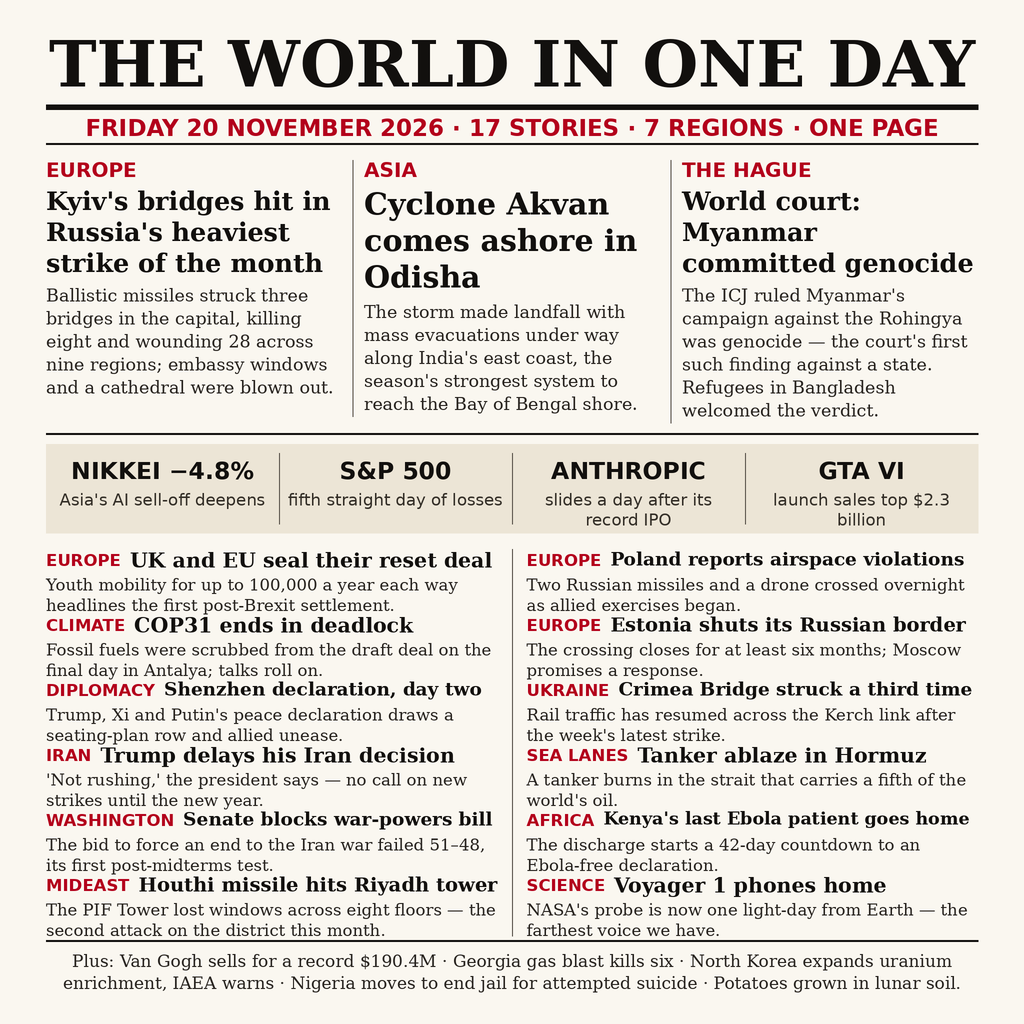
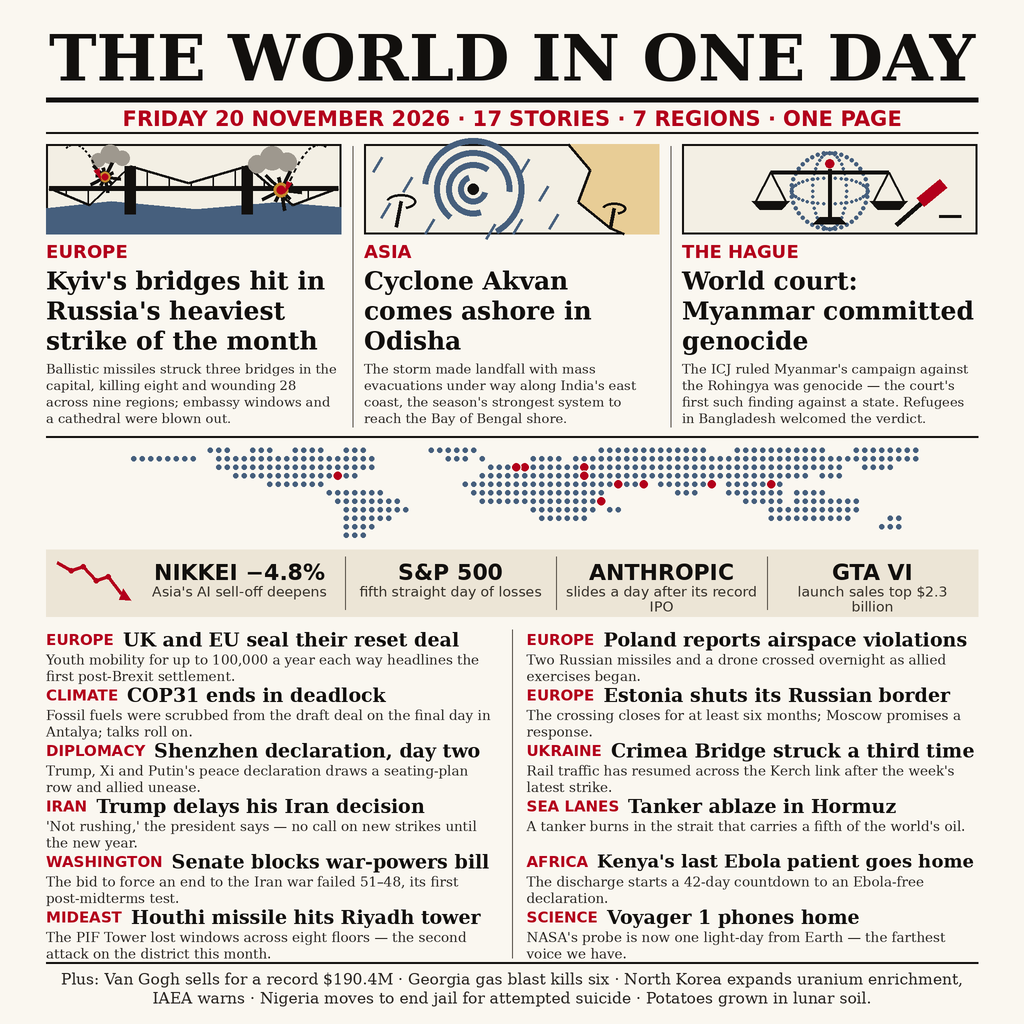
Add drawn illustrations: hero art, dotted world map, markets chart

diff --git a/build_image.py b/build_image.py
@@ -3,11 +3,15 @@
 Friday 20 November 2026 — at 2048x2048, then Lanczos-downscale it to
 the 1024x1024 entry.png the competition hands in.
 
-The page is deliberately sparse: three hero stories, a markets strip,
-twelve one-line briefs and a footer. Legibility beat density in the
-previous edition of this contest, so every headline is measured with
-PIL's text metrics and shrunk or wrapped until it fits its box.
+The page is deliberately sparse: three hero stories with drawn
+illustration panels, a dotted world map of the day's story places, a
+markets strip, twelve one-line briefs and a footer. Legibility beat
+density in the previous edition of this contest, so every headline is
+measured with PIL's text metrics and shrunk or wrapped until it fits
+its box, and the artwork stays bold and simple.
 """
+
+import math
 
 from PIL import Image, ImageDraw, ImageFont
 
@@ -19,6 +23,10 @@ INK = (18, 16, 14)
 RED = (179, 0, 27)            # #b3001b
 BAND = (236, 229, 214)        # markets strip shading
 MUTE = (90, 84, 76)
+SLATE = (70, 95, 125)         # slate blue: water, map dots, rain
+OCHRE = (196, 138, 44)        # land and burst rings
+PALE = (243, 239, 228)        # illustration panel tint
+SMOKE = (158, 152, 142)
 
 FONT_DIR = "/usr/share/fonts/truetype/dejavu/"
 SERIF_B = FONT_DIR + "DejaVuSerif-Bold.ttf"
@@ -82,20 +90,168 @@ def rule(y, height, fill=INK):
 # ---------------------------------------------------------------- masthead
 
 title = "THE WORLD IN ONE DAY"
-tf = fit_single(title, SERIF_B, 158, CW)
-centered(title, 52, tf)
-y = 52 + int(tf.size * 1.18)
+tf = fit_single(title, SERIF_B, 140, CW)
+centered(title, 40, tf)
+y = 40 + int(tf.size * 1.18)
 
-rule(y + 6, 10)
-y += 26
+rule(y + 4, 9)
+y += 22
 date_f = fit_single(
     "FRIDAY 20 NOVEMBER 2026 \u00b7 17 STORIES \u00b7 7 REGIONS \u00b7 ONE PAGE",
-    SANS_B, 46, CW)
+    SANS_B, 42, CW)
 centered("FRIDAY 20 NOVEMBER 2026 \u00b7 17 STORIES \u00b7 7 REGIONS \u00b7 ONE PAGE",
          y, date_f, fill=RED)
-y += int(date_f.size * 1.25)
+y += int(date_f.size * 1.22)
 rule(y, 3)
-y += 30
+y += 24
+
+# ------------------------------------------------------- hero artwork
+# One flat illustration style throughout: bold PIL primitives, the page's
+# own palette, shapes big enough to read at thumbnail size.
+
+def panel(x, y, w, h):
+    d.rectangle([x, y, x + w, y + h], fill=PALE, outline=INK, width=4)
+
+
+def burst(cx, cy, r):
+    """An explosion starburst: radiating ink spikes, red heart, ochre ring."""
+    for k in range(10):
+        a = math.radians(k * 36 + 8)
+        rr = r if k % 2 == 0 else int(r * 0.62)
+        d.line([cx, cy, cx + rr * math.cos(a), cy + rr * math.sin(a)],
+               fill=INK, width=7)
+    d.ellipse([cx - r * 0.34, cy - r * 0.34, cx + r * 0.34, cy + r * 0.34],
+              outline=OCHRE, width=7)
+    d.ellipse([cx - r * 0.2, cy - r * 0.2, cx + r * 0.2, cy + r * 0.2],
+              fill=RED)
+
+
+def smoke(cx, cy, s):
+    for dx, dy, r in ((-s, 6, int(s * 0.62)), (0, -6, int(s * 0.8)),
+                      (s, 2, int(s * 0.66))):
+        d.ellipse([cx + dx - r, cy + dy - r, cx + dx + r, cy + dy + r],
+                  fill=SMOKE)
+
+
+def trail(x0, y0, x1, y1, lift):
+    """A dashed missile arc from (x0, y0) down to (x1, y1)."""
+    pts = []
+    for t in range(21):
+        u = t / 20
+        pts.append((x0 + (x1 - x0) * u,
+                    y0 + (y1 - y0) * u - lift * 4 * u * (1 - u)))
+    for i in range(0, len(pts) - 1, 2):
+        d.line([pts[i], pts[i + 1]], fill=INK, width=4)
+    a = math.atan2(pts[-1][1] - pts[-3][1], pts[-1][0] - pts[-3][0])
+    tip = pts[-1]
+    d.polygon([(tip[0] + 16 * math.cos(a), tip[1] + 16 * math.sin(a)),
+               (tip[0] + 10 * math.cos(a + 2.5), tip[1] + 10 * math.sin(a + 2.5)),
+               (tip[0] + 10 * math.cos(a - 2.5), tip[1] + 10 * math.sin(a - 2.5))],
+              fill=RED)
+
+
+def art_kyiv(x, y, w, h):
+    panel(x, y, w, h)
+    # river band along the foot, slate under a wavy bank line
+    bank = [(x, y + h - 52), (x + 130, y + h - 66), (x + 300, y + h - 50),
+            (x + 460, y + h - 64), (x + w, y + h - 54), (x + w, y + h),
+            (x, y + h)]
+    d.polygon(bank, fill=SLATE)
+    # suspension bridge: two towers, a deck, cables and hangers
+    deck_y = y + h - 92
+    tx1, tx2 = x + 168, x + 402
+    for tx in (tx1, tx2):
+        d.rectangle([tx - 11, y + 44, tx + 11, y + h - 40], fill=INK)
+    d.line([x + 6, deck_y, x + w - 6, deck_y], fill=INK, width=10)
+    spans = [(x + 6, tx1, deck_y, y + 44), (tx1, tx2, y + 44, y + 44),
+             (tx2, x + w - 6, y + 44, deck_y)]
+    for xa, xb, ya, yb in spans:
+        mid = ((xa + xb) // 2, max(ya, yb) + 34)
+        d.line([xa, ya, mid[0], mid[1]], fill=INK, width=5)
+        d.line([mid[0], mid[1], xb, yb], fill=INK, width=5)
+        for fx in range(xa + 34, xb - 10, 44):
+            u = (fx - xa) / (xb - xa)
+            top = (ya + (mid[1] - ya) * (u / 0.5)) if u < 0.5 else \
+                  (mid[1] + (yb - mid[1]) * ((u - 0.5) / 0.5))
+            d.line([fx, top, fx, deck_y], fill=INK, width=3)
+    # smoke first (behind the bursts), then bursts and incoming trails
+    smoke(x + 452, y + 34, 30)
+    smoke(x + 128, y + 26, 24)
+    burst(x + 470, y + 92, 42)
+    burst(x + 118, y + 66, 32)
+    trail(x + 40, y + 8, x + 104, y + 58, 26)
+    trail(x + w - 30, y + 6, x + 484, y + 84, 30)
+
+
+def art_cyclone(x, y, w, h):
+    panel(x, y, w, h)
+    # coastline: ochre land shoulder on the right
+    coast = [(x + 408, y), (x + 452, y + 52), (x + 428, y + 116),
+             (x + 492, y + 168), (x + 520, y + h), (x + w, y + h),
+             (x + w, y)]
+    d.polygon(coast, fill=(232, 205, 150))
+    d.line(coast[:5], fill=INK, width=5)
+    # cyclone: concentric broken arcs around an ink eye
+    cx, cy = x + 218, y + h // 2
+    for i, r in enumerate((30, 54, 78, 102)):
+        start = 15 + i * 57
+        d.arc([cx - r, cy - r, cx + r, cy + r], start, start + 235,
+              fill=SLATE, width=12)
+    d.ellipse([cx - 11, cy - 11, cx + 11, cy + 11], fill=INK)
+    # diagonal rain streaks
+    for rx, ry in ((36, 26), (96, 66), (52, 118), (140, 150), (330, 30),
+                   (368, 84), (316, 150), (150, 18), (262, 160), (388, 140)):
+        d.line([x + rx, y + ry, x + rx - 18, y + ry + 30], fill=SLATE, width=5)
+    # two palms, bent by the wind
+    for px, py, s in ((64, h - 14, 1.0), (492, h - 10, 0.8)):
+        bx, by = x + px, y + py
+        d.line([bx, by, bx + 10 * s, by - 52 * s], fill=INK, width=7)
+        tx, ty = bx + 10 * s, by - 52 * s
+        for a in (-165, -120, -75, -30, 15):
+            ar = math.radians(a)
+            d.arc([tx - 30 * s, ty - 14 * s, tx + 30 * s, ty + 16 * s],
+                  a, a + 55, fill=INK, width=5)
+
+
+def art_icj(x, y, w, h):
+    panel(x, y, w, h)
+    cx, cy = x + w // 2, y + h // 2 + 4
+    # dotted globe behind the scales
+    for k in range(40):
+        a = math.radians(k * 9)
+        dx, dy = cx + 76 * math.cos(a), cy + 76 * math.sin(a)
+        d.ellipse([dx - 4, dy - 4, dx + 4, dy + 4], fill=SLATE)
+        ex, ey = cx + 34 * math.cos(a), cy + 76 * math.sin(a)
+        d.ellipse([ex - 3, ey - 3, ex + 3, ey + 3], fill=SLATE)
+        gx, gy = cx + 76 * math.cos(a), cy + 26 * math.sin(a)
+        d.ellipse([gx - 3, gy - 3, gx + 3, gy + 3], fill=SLATE)
+    # scales of justice
+    top = y + 34
+    d.line([cx, top + 16, cx, y + h - 34], fill=INK, width=8)
+    d.ellipse([cx - 9, top - 4, cx + 9, top + 14], fill=RED)
+    beam_y = top + 22
+    d.line([cx - 118, beam_y, cx + 118, beam_y], fill=INK, width=8)
+    for sx in (cx - 118, cx + 118):
+        pan_y = beam_y + 58
+        d.line([sx, beam_y, sx - 30, pan_y], fill=INK, width=4)
+        d.line([sx, beam_y, sx + 30, pan_y], fill=INK, width=4)
+        d.polygon([(sx - 38, pan_y), (sx + 38, pan_y), (sx + 22, pan_y + 17),
+                   (sx - 22, pan_y + 17)], fill=INK)
+    d.polygon([(cx - 34, y + h - 20), (cx + 34, y + h - 20),
+               (cx + 20, y + h - 34), (cx - 20, y + h - 34)], fill=INK)
+    # gavel, struck at the lower right
+    gx, gy = x + w - 128, y + h - 44
+    d.line([gx - 34, gy + 26, gx + 30, gy - 30], fill=INK, width=9)
+    ca, sa = math.cos(math.radians(-40)), math.sin(math.radians(-40))
+    hx, hy = gx + 38, gy - 38
+    corners = []
+    for lx, ly in ((-30, -11), (30, -11), (30, 11), (-30, 11)):
+        corners.append((hx + lx * ca - ly * sa, hy + lx * sa + ly * ca))
+    d.polygon(corners, fill=RED)
+    d.line([gx + 52, gy + 8, gx + 96, gy + 8], fill=INK, width=6)
+
+
+ART = [art_kyiv, art_cyclone, art_icj]
 
 # ---------------------------------------------------------------- heroes
 
@@ -121,30 +277,74 @@ hero_top = y
 col_gap = 46
 col_w = (CW - 2 * col_gap) // 3
 hero_bottom = hero_top
+ART_H = 180
 
 for i, (kicker, head, deck) in enumerate(HEROES):
     x = MARGIN + i * (col_w + col_gap)
-    cy = hero_top
-    d.text((x, cy), kicker, font=font(SANS_B, 40), fill=RED)
-    cy += 56
-    hf = font(SERIF_B, 60)
+    ART[i](x, hero_top, col_w, ART_H)
+    cy = hero_top + ART_H + 14
+    d.text((x, cy), kicker, font=font(SANS_B, 36), fill=RED)
+    cy += 50
+    hf = font(SERIF_B, 50)
     head_lines = wrap(head, hf, col_w)
     while len(head_lines) > 3 and hf.size > 34:
         hf = font(SERIF_B, hf.size - 3)
         head_lines = wrap(head, hf, col_w)
-    cy = draw_lines(x, cy, head_lines, hf, int(hf.size * 1.22))
-    cy += 12
-    df = font(SERIF, 35)
+    cy = draw_lines(x, cy, head_lines, hf, int(hf.size * 1.2))
+    cy += 10
+    df = font(SERIF, 26)
     deck_lines = wrap(deck, df, col_w)
-    cy = draw_lines(x, cy, deck_lines, df, 46, fill=(40, 36, 32))
+    cy = draw_lines(x, cy, deck_lines, df, 33, fill=(40, 36, 32))
     hero_bottom = max(hero_bottom, cy)
-    if i:
-        dx = x - col_gap // 2
-        d.line([dx, hero_top + 4, dx, hero_bottom], fill=MUTE, width=2)
 
-y = hero_bottom + 20
+for i in (1, 2):
+    dx = MARGIN + i * (col_w + col_gap) - col_gap // 2
+    d.line([dx, hero_top + 4, dx, hero_bottom], fill=MUTE, width=2)
+
+y = hero_bottom + 18
 rule(y, 3)
-y += 22
+y += 20
+
+# ------------------------------------------------------------ world map
+# A dotted-grid world map: land ranges on a 96 x 11 grid (3.75 degrees a
+# column, 13 a row, from 74N), with red dots at the day's story places.
+
+MAP_LAND = [
+    [(12, 14), (17, 19), (22, 25), (28, 30), (38, 43), (58, 70), (74, 84),
+     (88, 95)],
+    [(3, 10), (13, 31), (40, 42), (44, 44), (50, 53), (55, 95)],
+    [(13, 31), (45, 46), (47, 56), (57, 86), (89, 92)],
+    [(15, 29), (44, 57), (58, 82), (84, 86)],
+    [(19, 25), (42, 58), (59, 63), (65, 71), (73, 79)],
+    [(26, 32), (43, 58), (67, 69), (73, 79), (81, 84)],
+    [(27, 34), (44, 58), (75, 79), (81, 85), (86, 88)],
+    [(28, 35), (50, 57), (59, 60), (78, 88)],
+    [(28, 33), (51, 56), (78, 87), (92, 93)],
+    [(28, 31), (91, 93)],
+    [(28, 30)],
+]
+MAP_PLACES = [  # (lon, lat): Kyiv, Odisha, The Hague, Riyadh, Shenzhen,
+    (30.5, 50.4), (86.0, 20.0), (4.3, 52.0), (46.7, 24.6), (114.0, 22.5),
+    (-0.1, 51.5), (30.7, 36.9), (36.8, -1.3), (56.3, 26.6), (-77.0, 38.9),
+]  # London, Antalya, Nairobi, Hormuz, Washington
+
+map_pitch = 17
+map_w = 96 * map_pitch
+map_x = MARGIN + (CW - map_w) // 2
+for row, ranges in enumerate(MAP_LAND):
+    for c0, c1 in ranges:
+        for c in range(c0, c1 + 1):
+            cx = map_x + c * map_pitch + map_pitch // 2
+            cy = y + row * map_pitch + map_pitch // 2
+            d.ellipse([cx - 5, cy - 5, cx + 5, cy + 5], fill=SLATE)
+for lon, lat in MAP_PLACES:
+    c = round((lon + 180) / 3.75)
+    r = round((74 - lat) / 13)
+    cx = map_x + c * map_pitch + map_pitch // 2
+    cy = y + r * map_pitch + map_pitch // 2
+    d.ellipse([cx - 10, cy - 10, cx + 10, cy + 10], fill=PAPER)
+    d.ellipse([cx - 8, cy - 8, cx + 8, cy + 8], fill=RED)
+y += len(MAP_LAND) * map_pitch + 20
 
 # ---------------------------------------------------------------- markets
 
@@ -155,23 +355,33 @@ MARKETS = [
     ("GTA VI", "launch sales top $2.3 billion"),
 ]
 
-band_h = 178
+band_h = 134
 d.rectangle([MARGIN, y, W - MARGIN, y + band_h], fill=BAND)
-cell_w = CW // 4
+# a small red down-trend chart at the strip's left
+chart = [(0, 26), (28, 42), (52, 34), (78, 62), (102, 54), (128, 88)]
+cpts = [(MARGIN + 22 + px, y + py) for px, py in chart]
+d.line(cpts, fill=RED, width=7, joint="curve")
+for px, py in cpts[1:-1]:
+    d.ellipse([px - 5, py - 5, px + 5, py + 5], fill=RED)
+hx, hy = cpts[-1]
+d.polygon([(hx + 20, hy + 14), (hx - 4, hy + 12), (hx + 4, hy - 10)],
+          fill=RED)
+chart_w = 176
+cell_w = (CW - chart_w) // 4
 for i, (head, tail) in enumerate(MARKETS):
-    cx = MARGIN + i * cell_w
-    hf = fit_single(head, SANS_B, 47, cell_w - 28)
-    d.text((cx + (cell_w - tw(head, hf)) / 2, y + 26), head, font=hf, fill=INK)
-    tf2 = font(SANS, 33)
+    cx = MARGIN + chart_w + i * cell_w
+    hf = fit_single(head, SANS_B, 44, cell_w - 28)
+    d.text((cx + (cell_w - tw(head, hf)) / 2, y + 20), head, font=hf, fill=INK)
+    tf2 = font(SANS, 28)
     tail_lines = wrap(tail, tf2, cell_w - 36)
-    ty = y + 92
+    ty = y + 68
     for line in tail_lines[:2]:
         d.text((cx + (cell_w - tw(line, tf2)) / 2, ty), line, font=tf2,
                fill=(52, 47, 40))
-        ty += 40
+        ty += 30
     if i:
-        d.line([cx, y + 18, cx, y + band_h - 18], fill=MUTE, width=2)
-y += band_h + 30
+        d.line([cx, y + 14, cx, y + band_h - 14], fill=MUTE, width=2)
+y += band_h + 24
 
 # ---------------------------------------------------------------- briefs
 
@@ -212,7 +422,7 @@ BRIEFS = [
      "we have."),
 ]
 
-FOOTER_TOP = W - 168
+FOOTER_TOP = W - 124
 brief_gap = 58
 bcol_w = (CW - brief_gap) // 2
 rows = 6
@@ -224,15 +434,15 @@ for idx, (region, head, deck) in enumerate(BRIEFS):
     x = MARGIN + col * (bcol_w + brief_gap)
     by = y + row * row_h
     # region tag and headline share one line
-    rf = font(SANS_B, 33)
+    rf = font(SANS_B, 30)
     d.text((x, by + 5), region, font=rf, fill=RED)
     rx = x + tw(region, rf) + 18
-    hf = fit_single(head, SERIF_B, 41, x + bcol_w - rx, min_size=28)
+    hf = fit_single(head, SERIF_B, 38, x + bcol_w - rx, min_size=26)
     d.text((rx, by), head, font=hf, fill=INK)
     # deck below, up to two lines
-    df = font(SERIF, 33)
+    df = font(SERIF, 27)
     deck_lines = wrap(deck, df, bcol_w)
-    draw_lines(x, by + 54, deck_lines[:2], df, 41, fill=(40, 36, 32))
+    draw_lines(x, by + 46, deck_lines[:2], df, 33, fill=(40, 36, 32))
 
 # centre divider between the two brief columns
 dx = MARGIN + bcol_w + brief_gap // 2
@@ -245,12 +455,12 @@ foot = ("Plus: Van Gogh sells for a record $190.4M \u00b7 Georgia gas blast "
         "kills six \u00b7 North Korea expands uranium enrichment, IAEA warns "
         "\u00b7 Nigeria moves to end jail for attempted suicide \u00b7 "
         "Potatoes grown in lunar soil.")
-ff = font(SERIF, 34)
+ff = font(SERIF, 31)
 foot_lines = wrap(foot, ff, CW)
-fy = FOOTER_TOP + 22
+fy = FOOTER_TOP + 16
 for line in foot_lines[:2]:
     centered(line, fy, ff, fill=(40, 36, 32))
-    fy += 44
+    fy += 38
 
 # ---------------------------------------------------------------- save
 

diff --git a/README.md b/README.md
@@ -4,7 +4,7 @@
 
 # The World in One Day — Friday 20 November 2026
 
-One page, seventeen stories, seven regions: the whole of Friday 20 November 2026 set as a clean broadsheet front page. Three hero stories lead — Russia's heaviest strike of the month on Kyiv's bridges, Cyclone Akvan coming ashore in Odisha, and the world court's genocide ruling against Myanmar — above a markets strip and twelve short briefs, from the UK–EU reset deal and COP31's deadlock to Voyager 1 phoning home from one light-day away. The design bets on legibility over density: off-white paper, black serif display type, a single red accent for kickers and region tags, and room for every headline to breathe.
+One page, seventeen stories, seven regions: the whole of Friday 20 November 2026 set as a clean broadsheet front page. Three hero stories lead — Russia's heaviest strike of the month on Kyiv's bridges, Cyclone Akvan coming ashore in Odisha, and the world court's genocide ruling against Myanmar — each topped by its own drawn illustration in one flat style: a suspension bridge under missile fire, a cyclone spiral over a palm-fringed coast, and the scales of justice before a dotted globe. Between the heroes and the markets strip runs a dotted world map with red dots at the day's story places, from Kyiv and Odisha to Riyadh, Shenzhen and Nairobi; the markets strip opens with a small red down-trend chart. Below sit twelve short briefs, from the UK–EU reset deal and COP31's deadlock to Voyager 1 phoning home from one light-day away. The design bets on legibility over density: off-white paper, black serif display type, a single red accent for kickers and region tags, and room for every headline to breathe.
 
 ## How it is made
 
